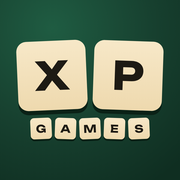
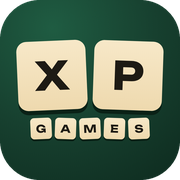
Автовыкладка 8895059

diff --git a/novogodnie-igry-dlya-kompanii/index.html b/novogodnie-igry-dlya-kompanii/index.html
@@ -15,12 +15,12 @@
     <meta property="og:url" content="https://xplaingames.ru/novogodnie-igry-dlya-kompanii/" />
     <meta property="og:image" content="https://xplaingames.ru/og.jpg" />
     <meta name="twitter:card" content="summary_large_image" />
-    <link rel="icon" href="/favicon.ico?v=2" sizes="any" />
-    <link rel="icon" type="image/png" sizes="192x192" href="/icon-192.png?v=2" />
-    <link rel="apple-touch-icon" href="/apple-touch-icon.png?v=2" />
+    <link rel="icon" href="/favicon.ico?v=3" sizes="any" />
+    <link rel="icon" type="image/png" sizes="192x192" href="/icon-192.png?v=3" />
+    <link rel="apple-touch-icon" href="/apple-touch-icon.png?v=3" />
     <link rel="stylesheet" href="../assets/golos-text-ODe71hIH.css" />
     <link rel="stylesheet" href="../assets/main-Be0YU-h6.css" />
-    <script type="application/ld+json">{"@context":"https://schema.org","@type":"Article","headline":"Новогодние игры для компании онлайн","description":"Игры на Новый год для компании и семьи: Тайный Санта, новогодняя викторина, «Своя игра», Мафия без ведущего. Каждый играет со своего телефона — за столом или на созвоне.","inLanguage":"ru","url":"https://xplaingames.ru/novogodnie-igry-dlya-kompanii/","dateModified":"2026-11-18","author":{"@type":"Organization","name":"XPlainGames","url":"https://xplaingames.ru/"}}</script>
+    <script type="application/ld+json">{"@context":"https://schema.org","@type":"Article","headline":"Новогодние игры для компании онлайн","description":"Игры на Новый год для компании и семьи: Тайный Санта, новогодняя викторина, «Своя игра», Мафия без ведущего. Каждый играет со своего телефона — за столом или на созвоне.","inLanguage":"ru","url":"https://xplaingames.ru/novogodnie-igry-dlya-kompanii/","dateModified":"2026-11-19","author":{"@type":"Organization","name":"XPlainGames","url":"https://xplaingames.ru/"}}</script>
     <script type="application/ld+json">{"@context":"https://schema.org","@type":"FAQPage","mainEntity":[{"@type":"Question","name":"Нужно ли что-то скачивать или регистрироваться?","acceptedAnswer":{"@type":"Answer","text":"Нет. Игры открываются в браузере телефона или компьютера: ведущий создаёт комнату и отправляет ссылку, остальные просто заходят по ней. Ещё XPlainGames можно открыть в Telegram."}},{"@type":"Question","name":"Можно ли играть, если все в разных городах?","acceptedAnswer":{"@type":"Answer","text":"Да. Включите видеосвязь и играйте каждый в своём телефоне. Если поговорить не получится, выбирайте игры, где можно играть перепиской: Викторину, Табло, «Рисуй и угадывай», Данетки, «Лишнего» и «Морской бой»."}},{"@type":"Question","name":"Сколько человек может играть?","acceptedAnswer":{"@type":"Answer","text":"В большинстве игр — до 10 игроков. В Тайном Санте — до 30 участников, так что жеребьёвку можно устроить на весь отдел."}},{"@type":"Question","name":"Это бесплатно?","acceptedAnswer":{"@type":"Answer","text":"Да: в каждую игру можно сыграть бесплатно, и набор «Корпоратив» для Табло тоже бесплатный. Новогоднее — праздничные слова, места, загадки и вопросы — входит в пропуск XPlainGames+ (599 ₽ на 30 дней): он открывает новогодние наборы во всех играх, свои слова и вопросы, больше тем и раундов. Набор «Новогодний» для Табло можно купить и отдельно — 399 ₽, дело «Тихая ночь» для «Детектива: город» — 249 ₽. Покупает только ведущий, игроки заходят бесплатно."}},{"@type":"Question","name":"Во что поиграть с детьми?","acceptedAnswer":{"@type":"Answer","text":"В «Рисуй и угадывай»: для детей есть простые слова — предметы и животные. Ещё подойдут Викторина с темой «Для детей», «Крестики-нолики» и «Морской бой»."}}]}</script>
     <script type="application/ld+json">{"@context":"https://schema.org","@type":"BreadcrumbList","itemListElement":[{"@type":"ListItem","position":1,"name":"XPlainGames","item":"https://xplaingames.ru/"},{"@type":"ListItem","position":2,"name":"Новогодние игры","item":"https://xplaingames.ru/novogodnie-igry-dlya-kompanii/"}]}</script>
     <script>(function(m,e,t,r,i,k,a){m[i]=m[i]||function(){(m[i].a=m[i].a||[]).push(arguments)};m[i].l=1*new Date();k=e.createElement(t),a=e.getElementsByTagName(t)[0],k.async=1,k.src=r,a.parentNode.insertBefore(k,a)})(window,document,"script","https://mc.yandex.ru/metrika/tag.js","ym");ym(114104886,"init",{clickmap:true,trackLinks:true,accurateTrackBounce:true,webvisor:true});</script>

diff --git a/krestiki-noliki-onlayn/index.html b/krestiki-noliki-onlayn/index.html
@@ -15,9 +15,9 @@
     <meta property="og:url" content="https://xplaingames.ru/krestiki-noliki-onlayn/" />
     <meta property="og:image" content="https://xplaingames.ru/og.jpg" />
     <meta name="twitter:card" content="summary_large_image" />
-    <link rel="icon" href="/favicon.ico?v=2" sizes="any" />
-    <link rel="icon" type="image/png" sizes="192x192" href="/icon-192.png?v=2" />
-    <link rel="apple-touch-icon" href="/apple-touch-icon.png?v=2" />
+    <link rel="icon" href="/favicon.ico?v=3" sizes="any" />
+    <link rel="icon" type="image/png" sizes="192x192" href="/icon-192.png?v=3" />
+    <link rel="apple-touch-icon" href="/apple-touch-icon.png?v=3" />
     <link rel="stylesheet" href="../assets/golos-text-ODe71hIH.css" />
     <link rel="stylesheet" href="../assets/main-Be0YU-h6.css" />
     <script type="application/ld+json">{"@context":"https://schema.org","@type":"WebApplication","name":"Крестики-нолики — XPlainGames","url":"https://xplaingames.ru/krestiki-noliki-onlayn/","description":"Быстрые партии на поле 3×3. Победитель остаётся за столом, следующий из очереди бросает ему вызов. 2 игрока, остальные смотрят, 1–2 минуты за партию. Бесплатно, без регистрации — каждый играет со…","applicationCategory":"GameApplication","operatingSystem":"Любой браузер","inLanguage":"ru","offers":{"@type":"Offer","price":"0","priceCurrency":"RUB"}}</script>

diff --git a/taynyy-santa-onlayn/index.html b/taynyy-santa-onlayn/index.html
@@ -15,9 +15,9 @@
     <meta property="og:url" content="https://xplaingames.ru/taynyy-santa-onlayn/" />
     <meta property="og:image" content="https://xplaingames.ru/og.jpg" />
     <meta name="twitter:card" content="summary_large_image" />
-    <link rel="icon" href="/favicon.ico?v=2" sizes="any" />
-    <link rel="icon" type="image/png" sizes="192x192" href="/icon-192.png?v=2" />
-    <link rel="apple-touch-icon" href="/apple-touch-icon.png?v=2" />
+    <link rel="icon" href="/favicon.ico?v=3" sizes="any" />
+    <link rel="icon" type="image/png" sizes="192x192" href="/icon-192.png?v=3" />
+    <link rel="apple-touch-icon" href="/apple-touch-icon.png?v=3" />
     <link rel="stylesheet" href="../assets/golos-text-ODe71hIH.css" />
     <link rel="stylesheet" href="../assets/main-Be0YU-h6.css" />
     <script type="application/ld+json">{"@context":"https://schema.org","@type":"WebApplication","name":"Тайный Санта — XPlainGames","url":"https://xplaingames.ru/taynyy-santa-onlayn/","description":"Жеребьёвка подарков без бумажек: каждый пишет пожелания и узнаёт, кому дарит, — только он сам. 3–30 участников, 5 минут, участники заходят когда удобно. Бесплатно, без регистрации — каждый играет…","applicationCategory":"GameApplication","operatingSystem":"Любой браузер","inLanguage":"ru","offers":{"@type":"Offer","price":"0","priceCurrency":"RUB"}}</script>

diff --git a/detektiv-dlya-kompanii/index.html b/detektiv-dlya-kompanii/index.html
@@ -15,9 +15,9 @@
     <meta property="og:url" content="https://xplaingames.ru/detektiv-dlya-kompanii/" />
     <meta property="og:image" content="https://xplaingames.ru/og.jpg" />
     <meta name="twitter:card" content="summary_large_image" />
-    <link rel="icon" href="/favicon.ico?v=2" sizes="any" />
-    <link rel="icon" type="image/png" sizes="192x192" href="/icon-192.png?v=2" />
-    <link rel="apple-touch-icon" href="/apple-touch-icon.png?v=2" />
+    <link rel="icon" href="/favicon.ico?v=3" sizes="any" />
+    <link rel="icon" type="image/png" sizes="192x192" href="/icon-192.png?v=3" />
+    <link rel="apple-touch-icon" href="/apple-touch-icon.png?v=3" />
     <link rel="stylesheet" href="../assets/golos-text-ODe71hIH.css" />
     <link rel="stylesheet" href="../assets/main-Be0YU-h6.css" />
     <script type="application/ld+json">{"@context":"https://schema.org","@type":"WebApplication","name":"Детектив: досье — XPlainGames","url":"https://xplaingames.ru/detektiv-dlya-kompanii/","description":"У каждого свои улики, дело раскрывают вместе. Четыре дела: смерть в усадьбе 1912 года, пропавшая брошь в отеле у моря, сожжённый роман в Комарове и Снегурочка, запертая посреди ёлки. Два дела…","applicationCategory":"GameApplication","operatingSystem":"Любой браузер","inLanguage":"ru","offers":{"@type":"Offer","price":"0","priceCurrency":"RUB"}}</script>

diff --git a/risuy-i-ugadyvay/index.html b/risuy-i-ugadyvay/index.html
@@ -15,9 +15,9 @@
     <meta property="og:url" content="https://xplaingames.ru/risuy-i-ugadyvay/" />
     <meta property="og:image" content="https://xplaingames.ru/og.jpg" />
     <meta name="twitter:card" content="summary_large_image" />
-    <link rel="icon" href="/favicon.ico?v=2" sizes="any" />
-    <link rel="icon" type="image/png" sizes="192x192" href="/icon-192.png?v=2" />
-    <link rel="apple-touch-icon" href="/apple-touch-icon.png?v=2" />
+    <link rel="icon" href="/favicon.ico?v=3" sizes="any" />
+    <link rel="icon" type="image/png" sizes="192x192" href="/icon-192.png?v=3" />
+    <link rel="apple-touch-icon" href="/apple-touch-icon.png?v=3" />
     <link rel="stylesheet" href="../assets/golos-text-ODe71hIH.css" />
     <link rel="stylesheet" href="../assets/main-Be0YU-h6.css" />
     <script type="application/ld+json">{"@context":"https://schema.org","@type":"WebApplication","name":"Рисуй и угадывай — XPlainGames","url":"https://xplaingames.ru/risuy-i-ugadyvay/","description":"Один рисует слово пальцем на телефоне, остальные угадывают — рисунок появляется у всех сразу. Кто быстрее, тот больше очков. 2–10 игроков, 15–30 минут. Бесплатно, без регистрации — каждый играет…","applicationCategory":"GameApplication","operatingSystem":"Любой браузер","inLanguage":"ru","offers":{"@type":"Offer","price":"0","priceCurrency":"RUB"}}</script>

diff --git a/detektiv-onlayn/index.html b/detektiv-onlayn/index.html
@@ -15,9 +15,9 @@
     <meta property="og:url" content="https://xplaingames.ru/detektiv-onlayn/" />
     <meta property="og:image" content="https://xplaingames.ru/og.jpg" />
     <meta name="twitter:card" content="summary_large_image" />
-    <link rel="icon" href="/favicon.ico?v=2" sizes="any" />
-    <link rel="icon" type="image/png" sizes="192x192" href="/icon-192.png?v=2" />
-    <link rel="apple-touch-icon" href="/apple-touch-icon.png?v=2" />
+    <link rel="icon" href="/favicon.ico?v=3" sizes="any" />
+    <link rel="icon" type="image/png" sizes="192x192" href="/icon-192.png?v=3" />
+    <link rel="apple-touch-icon" href="/apple-touch-icon.png?v=3" />
     <link rel="stylesheet" href="../assets/golos-text-ODe71hIH.css" />
     <link rel="stylesheet" href="../assets/main-Be0YU-h6.css" />
     <script type="application/ld+json">{"@context":"https://schema.org","@type":"WebApplication","name":"Детектив: город — XPlainGames","url":"https://xplaingames.ru/detektiv-onlayn/","description":"Целый город в телефоне: ездите по адресам, допрашивайте свидетелей, запрашивайте камеры, звонки и базы. Чем меньше поездок до разгадки — тем выше оценка. Три дела: убийство в пекарне, отравление…","applicationCategory":"GameApplication","operatingSystem":"Любой браузер","inLanguage":"ru","offers":{"@type":"Offer","price":"0","priceCurrency":"RUB"}}</script>

diff --git a/morskoy-boy-onlayn/index.html b/morskoy-boy-onlayn/index.html
@@ -15,9 +15,9 @@
     <meta property="og:url" content="https://xplaingames.ru/morskoy-boy-onlayn/" />
     <meta property="og:image" content="https://xplaingames.ru/og.jpg" />
     <meta name="twitter:card" content="summary_large_image" />
-    <link rel="icon" href="/favicon.ico?v=2" sizes="any" />
-    <link rel="icon" type="image/png" sizes="192x192" href="/icon-192.png?v=2" />
-    <link rel="apple-touch-icon" href="/apple-touch-icon.png?v=2" />
+    <link rel="icon" href="/favicon.ico?v=3" sizes="any" />
+    <link rel="icon" type="image/png" sizes="192x192" href="/icon-192.png?v=3" />
+    <link rel="apple-touch-icon" href="/apple-touch-icon.png?v=3" />
     <link rel="stylesheet" href="../assets/golos-text-ODe71hIH.css" />
     <link rel="stylesheet" href="../assets/main-Be0YU-h6.css" />
     <script type="application/ld+json">{"@context":"https://schema.org","@type":"WebApplication","name":"Морской бой — XPlainGames","url":"https://xplaingames.ru/morskoy-boy-onlayn/","description":"Классика на двоих: десять кораблей, поле 10×10, каждый стреляет со своего телефона. Остальные смотрят и ждут очереди — победитель остаётся. 2 игрока, остальные смотрят, 10–20 минут. Бесплатно, без…","applicationCategory":"GameApplication","operatingSystem":"Любой браузер","inLanguage":"ru","offers":{"@type":"Offer","price":"0","priceCurrency":"RUB"}}</script>

diff --git a/danetki-onlayn/index.html b/danetki-onlayn/index.html
@@ -15,9 +15,9 @@
     <meta property="og:url" content="https://xplaingames.ru/danetki-onlayn/" />
     <meta property="og:image" content="https://xplaingames.ru/og.jpg" />
     <meta name="twitter:card" content="summary_large_image" />
-    <link rel="icon" href="/favicon.ico?v=2" sizes="any" />
-    <link rel="icon" type="image/png" sizes="192x192" href="/icon-192.png?v=2" />
-    <link rel="apple-touch-icon" href="/apple-touch-icon.png?v=2" />
+    <link rel="icon" href="/favicon.ico?v=3" sizes="any" />
+    <link rel="icon" type="image/png" sizes="192x192" href="/icon-192.png?v=3" />
+    <link rel="apple-touch-icon" href="/apple-touch-icon.png?v=3" />
     <link rel="stylesheet" href="../assets/golos-text-ODe71hIH.css" />
     <link rel="stylesheet" href="../assets/main-Be0YU-h6.css" />
     <script type="application/ld+json">{"@context":"https://schema.org","@type":"WebApplication","name":"Данетки — XPlainGames","url":"https://xplaingames.ru/danetki-onlayn/","description":"Странная история и вопросы, на которые хранитель отвечает только «да» или «нет». Восстановите, что произошло. 2–10 игроков, 15–40 минут. Бесплатно, без регистрации — каждый играет со своего телефона.","applicationCategory":"GameApplication","operatingSystem":"Любой браузер","inLanguage":"ru","offers":{"@type":"Offer","price":"0","priceCurrency":"RUB"}}</script>

diff --git a/shpion-onlayn/index.html b/shpion-onlayn/index.html
@@ -15,9 +15,9 @@
     <meta property="og:url" content="https://xplaingames.ru/shpion-onlayn/" />
     <meta property="og:image" content="https://xplaingames.ru/og.jpg" />
     <meta name="twitter:card" content="summary_large_image" />
-    <link rel="icon" href="/favicon.ico?v=2" sizes="any" />
-    <link rel="icon" type="image/png" sizes="192x192" href="/icon-192.png?v=2" />
-    <link rel="apple-touch-icon" href="/apple-touch-icon.png?v=2" />
+    <link rel="icon" href="/favicon.ico?v=3" sizes="any" />
+    <link rel="icon" type="image/png" sizes="192x192" href="/icon-192.png?v=3" />
+    <link rel="apple-touch-icon" href="/apple-touch-icon.png?v=3" />
     <link rel="stylesheet" href="../assets/golos-text-ODe71hIH.css" />
     <link rel="stylesheet" href="../assets/main-Be0YU-h6.css" />
     <script type="application/ld+json">{"@context":"https://schema.org","@type":"WebApplication","name":"Шпион — XPlainGames","url":"https://xplaingames.ru/shpion-onlayn/","description":"Все знают место, кроме шпиона. Задавайте вопросы, вычислите чужака — а шпион пусть угадает, где вы. 3–10 игроков, 5–10 минут за раунд. Бесплатно, без регистрации — каждый играет со своего телефона.","applicationCategory":"GameApplication","operatingSystem":"Любой браузер","inLanguage":"ru","offers":{"@type":"Offer","price":"0","priceCurrency":"RUB"}}</script>

diff --git a/mafiya-onlayn/index.html b/mafiya-onlayn/index.html
@@ -15,9 +15,9 @@
     <meta property="og:url" content="https://xplaingames.ru/mafiya-onlayn/" />
     <meta property="og:image" content="https://xplaingames.ru/og.jpg" />
     <meta name="twitter:card" content="summary_large_image" />
-    <link rel="icon" href="/favicon.ico?v=2" sizes="any" />
-    <link rel="icon" type="image/png" sizes="192x192" href="/icon-192.png?v=2" />
-    <link rel="apple-touch-icon" href="/apple-touch-icon.png?v=2" />
+    <link rel="icon" href="/favicon.ico?v=3" sizes="any" />
+    <link rel="icon" type="image/png" sizes="192x192" href="/icon-192.png?v=3" />
+    <link rel="apple-touch-icon" href="/apple-touch-icon.png?v=3" />
     <link rel="stylesheet" href="../assets/golos-text-ODe71hIH.css" />
     <link rel="stylesheet" href="../assets/main-Be0YU-h6.css" />
     <script type="application/ld+json">{"@context":"https://schema.org","@type":"WebApplication","name":"Мафия — XPlainGames","url":"https://xplaingames.ru/mafiya-onlayn/","description":"Мирные против тайной мафии — и без ведущего: роли раздаёт приложение, ночью все ходят в телефоне, днём спорят и голосуют. 5–10 игроков, 20–40 минут. Бесплатно, без регистрации — каждый играет со…","applicationCategory":"GameApplication","operatingSystem":"Любой браузер","inLanguage":"ru","offers":{"@type":"Offer","price":"0","priceCurrency":"RUB"}}</script>

diff --git a/bunker-onlayn/index.html b/bunker-onlayn/index.html
@@ -15,9 +15,9 @@
     <meta property="og:url" content="https://xplaingames.ru/bunker-onlayn/" />
     <meta property="og:image" content="https://xplaingames.ru/og.jpg" />
     <meta name="twitter:card" content="summary_large_image" />
-    <link rel="icon" href="/favicon.ico?v=2" sizes="any" />
-    <link rel="icon" type="image/png" sizes="192x192" href="/icon-192.png?v=2" />
-    <link rel="apple-touch-icon" href="/apple-touch-icon.png?v=2" />
+    <link rel="icon" href="/favicon.ico?v=3" sizes="any" />
+    <link rel="icon" type="image/png" sizes="192x192" href="/icon-192.png?v=3" />
+    <link rel="apple-touch-icon" href="/apple-touch-icon.png?v=3" />
     <link rel="stylesheet" href="../assets/golos-text-ODe71hIH.css" />
     <link rel="stylesheet" href="../assets/main-Be0YU-h6.css" />
     <script type="application/ld+json">{"@context":"https://schema.org","@type":"WebApplication","name":"Бункер — XPlainGames","url":"https://xplaingames.ru/bunker-onlayn/","description":"Катастрофа, а мест в бункере — на половину. Открывайте карты о себе, спорьте и решайте, кто останется за дверью. 4–10 игроков, 30–60 минут. Бесплатно, без регистрации — каждый играет со своего…","applicationCategory":"GameApplication","operatingSystem":"Любой браузер","inLanguage":"ru","offers":{"@type":"Offer","price":"0","priceCurrency":"RUB"}}</script>

diff --git a/viktorina-onlayn/index.html b/viktorina-onlayn/index.html
@@ -15,9 +15,9 @@
     <meta property="og:url" content="https://xplaingames.ru/viktorina-onlayn/" />
     <meta property="og:image" content="https://xplaingames.ru/og.jpg" />
     <meta name="twitter:card" content="summary_large_image" />
-    <link rel="icon" href="/favicon.ico?v=2" sizes="any" />
-    <link rel="icon" type="image/png" sizes="192x192" href="/icon-192.png?v=2" />
-    <link rel="apple-touch-icon" href="/apple-touch-icon.png?v=2" />
+    <link rel="icon" href="/favicon.ico?v=3" sizes="any" />
+    <link rel="icon" type="image/png" sizes="192x192" href="/icon-192.png?v=3" />
+    <link rel="apple-touch-icon" href="/apple-touch-icon.png?v=3" />
     <link rel="stylesheet" href="../assets/golos-text-ODe71hIH.css" />
     <link rel="stylesheet" href="../assets/main-Be0YU-h6.css" />
     <script type="application/ld+json">{"@context":"https://schema.org","@type":"WebApplication","name":"Викторина — XPlainGames","url":"https://xplaingames.ru/viktorina-onlayn/","description":"Вопросы с вариантами на время — каждый за себя или командами. Готовые темы, а с XPlainGames+ — ещё флаги, эмодзи-загадки и своя викторина из таблицы. 1–10 игроков, 10–25 минут. Бесплатно, без…","applicationCategory":"GameApplication","operatingSystem":"Любой браузер","inLanguage":"ru","offers":{"@type":"Offer","price":"0","priceCurrency":"RUB"}}</script>
